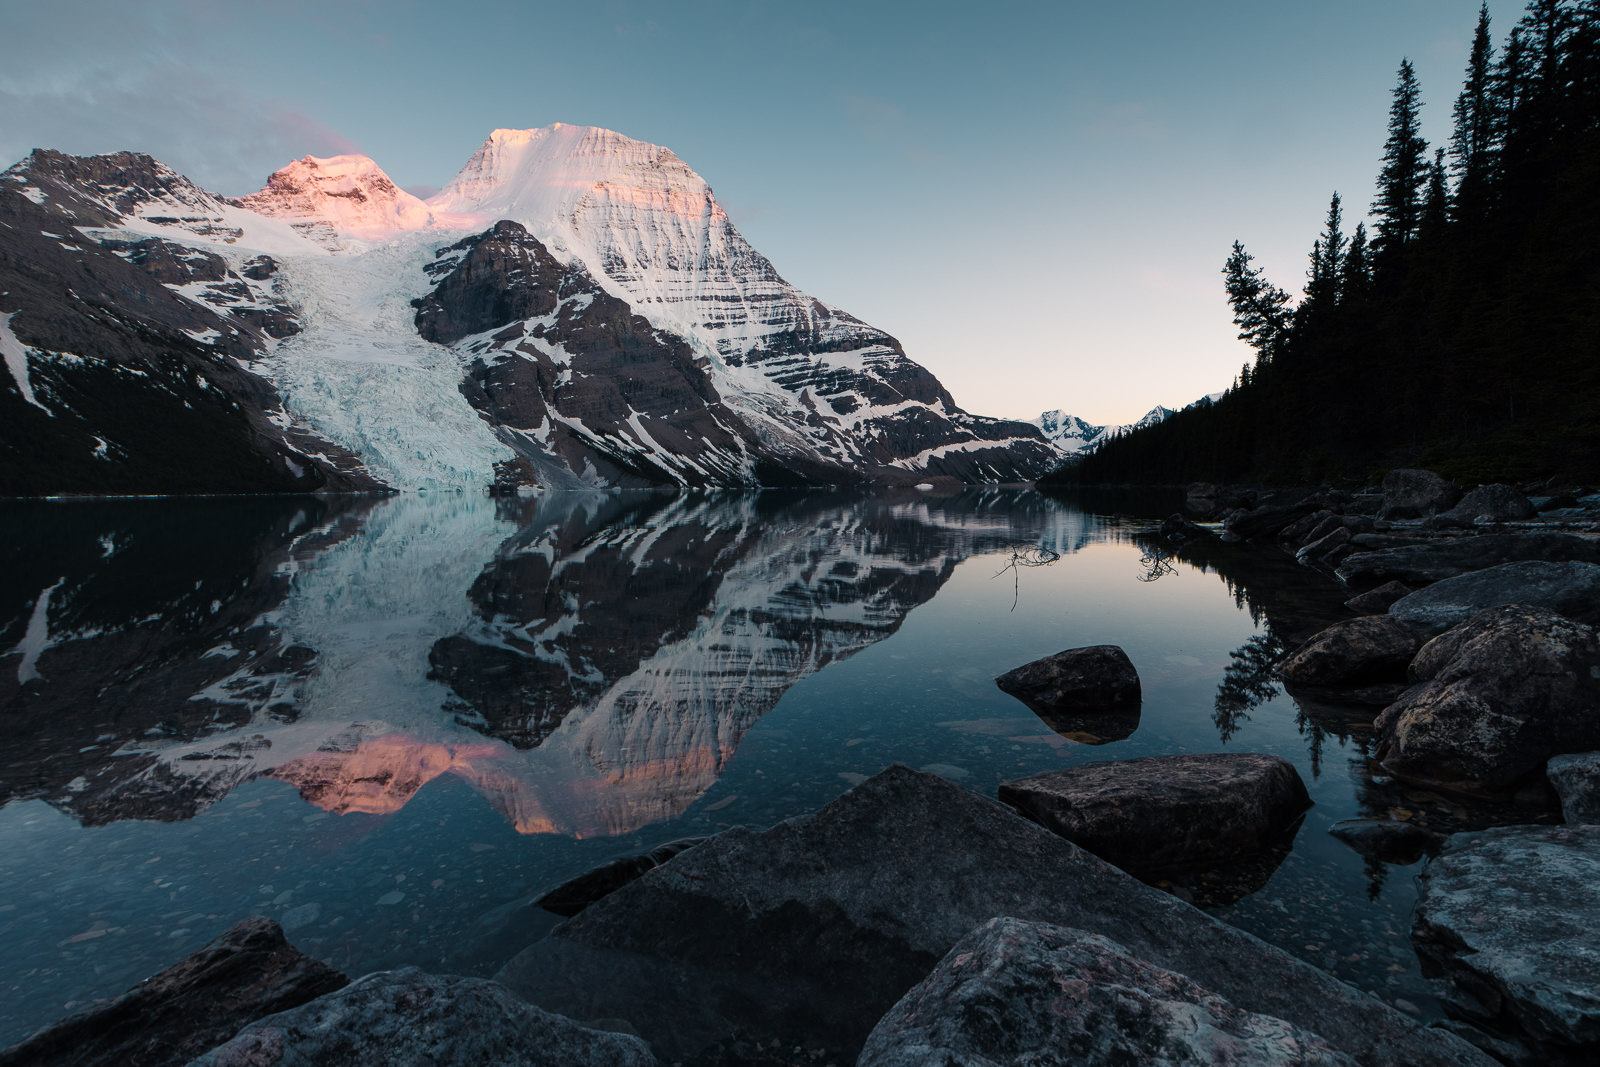
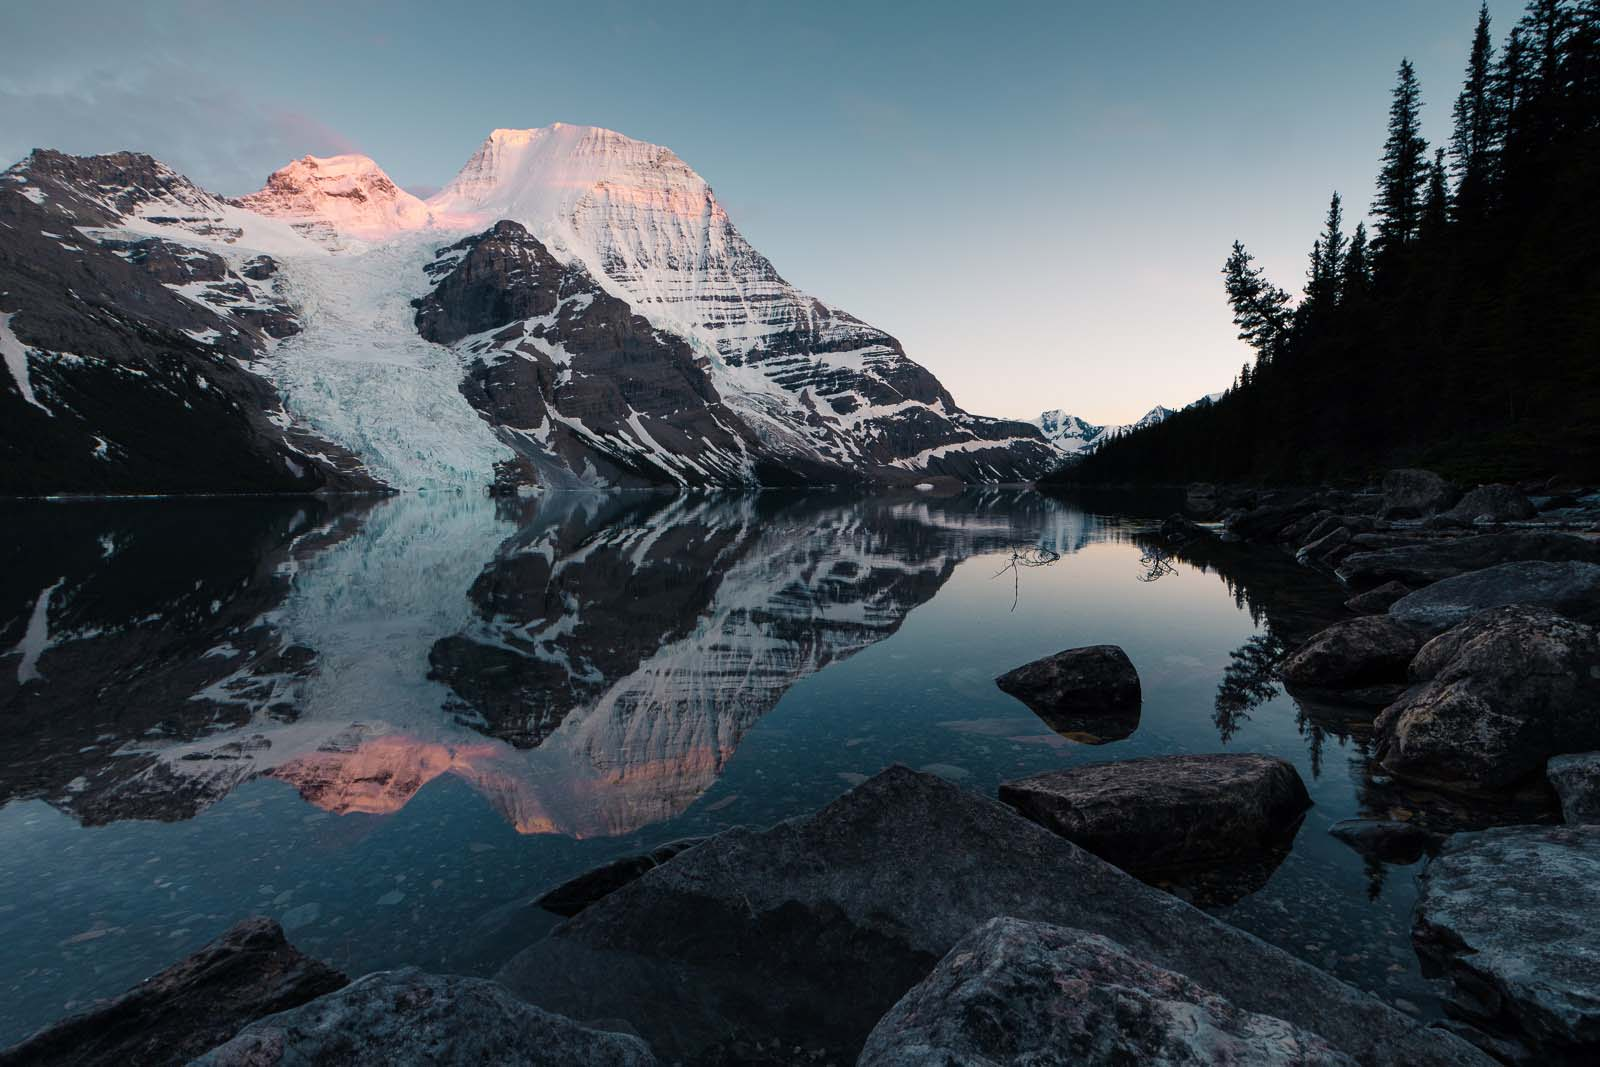
reduced image size

diff --git a/src/containers/Photography/Photography.css b/src/containers/Photography/Photography.css
@@ -6,7 +6,8 @@ main{
 	padding-top:30px;
 	padding-bottom: 80px;
 	background:url('../../assets/Backgrounds/Mountain.jpg');
-	background-size: calc(100%-170px);
+	background-size: calc(100vh-20px);
 	background-attachment: fixed;
-	background-position: center top
+	background-position: center top;
+
 }

diff --git a/src/components/About/About.css b/src/components/About/About.css
@@ -17,4 +17,5 @@
 	align-items: center;
 	flex-wrap: wrap;
 	width:100%;
+	padding-bottom: 150px
 }
